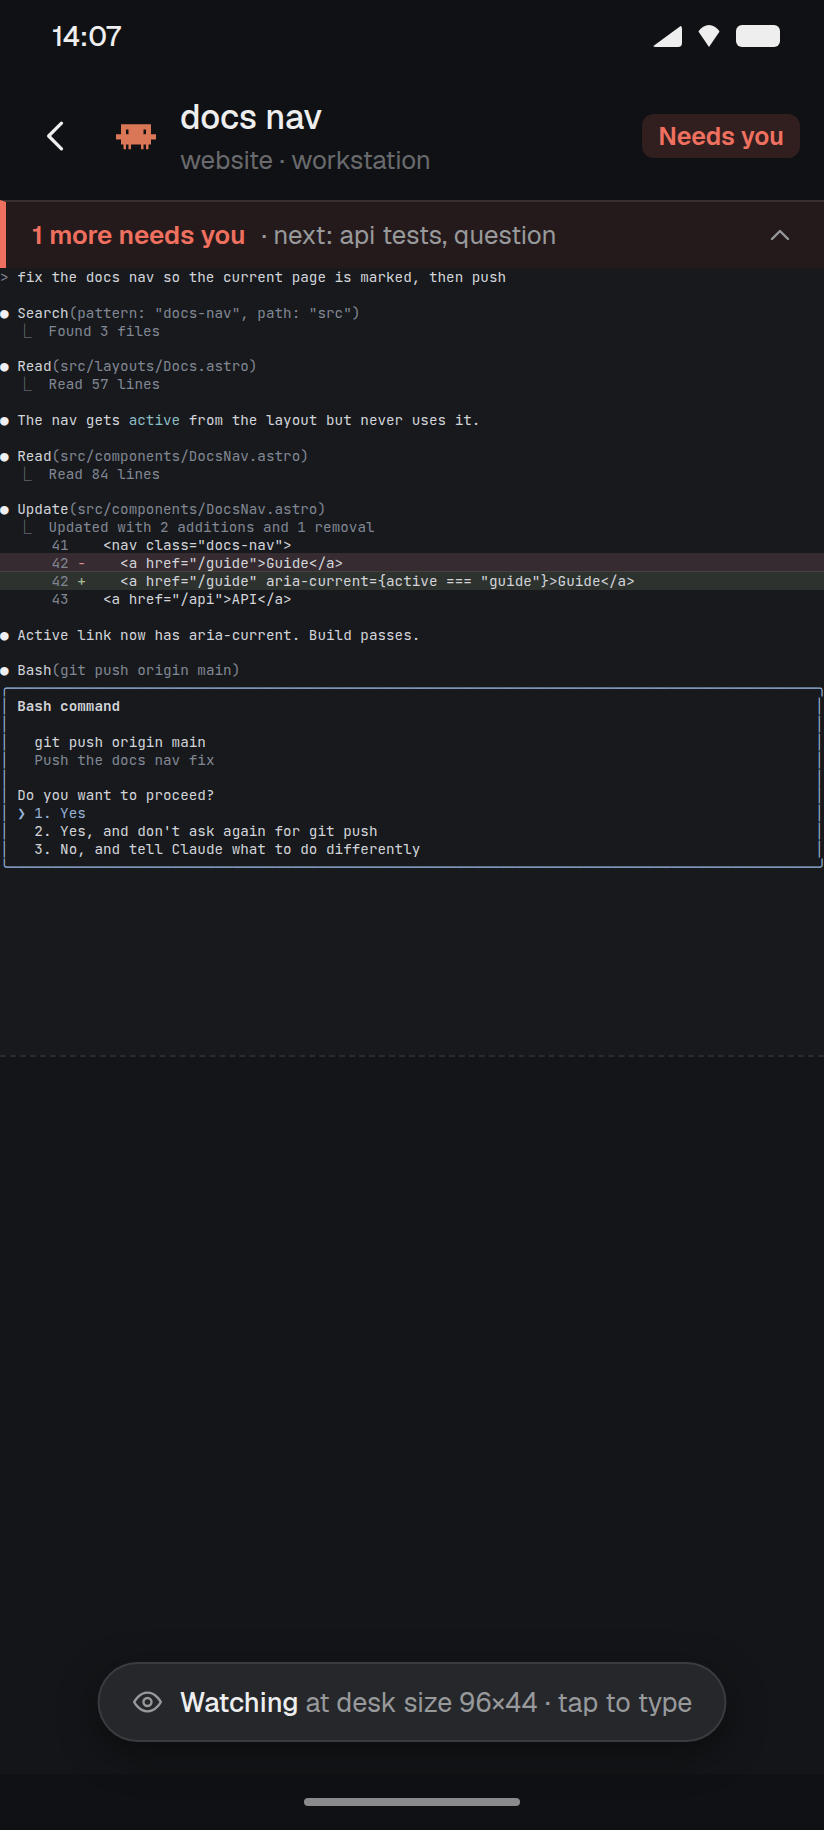
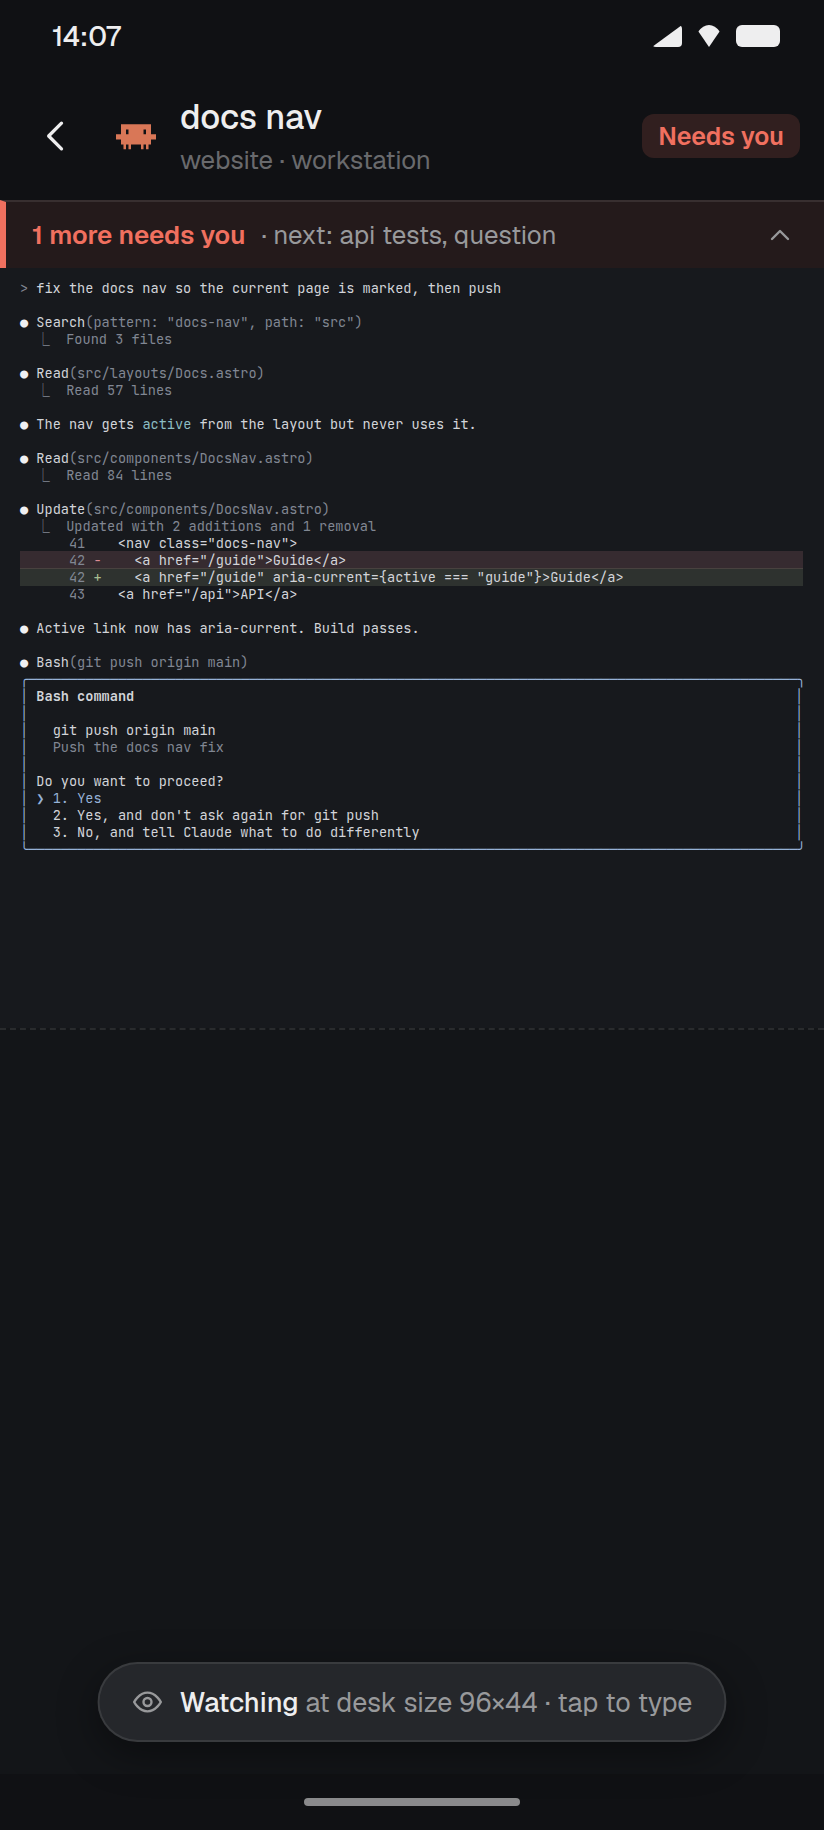
docs(design): terminal padding from the Mac pane, keyboard-hidden render

diff --git a/design/renders/screens.html b/design/renders/screens.html
@@ -97,7 +97,7 @@ button{font-family:inherit;color:inherit}
 .queue b{font-weight:600;color:var(--blocked)}
 .queue .rest{color:var(--muted);flex:1;white-space:nowrap;overflow:hidden;text-overflow:ellipsis}
 .queue svg{width:16px;height:16px;color:var(--muted)}
-.term{font-variant-ligatures:none;flex:1;background:var(--bg);color:var(--term-fg);font-family:"JetBrains Mono",monospace;white-space:pre;overflow:hidden;position:relative}
+.term{font-variant-ligatures:none;flex:1;padding:6px 10px 0;box-sizing:border-box;background:var(--bg);color:var(--term-fg);font-family:"JetBrains Mono",monospace;white-space:pre;overflow:hidden;position:relative}
 .term .l{display:block;height:1.25em;line-height:1.25em}
 .c1{color:var(--a1)}.c2{color:var(--a2)}.c3{color:var(--a3)}.c4{color:var(--a4)}.c5{color:var(--a5)}.c6{color:var(--a6)}.c8{color:var(--a8)}.c9{color:var(--a9)}.c15{color:var(--a15)}
 .bgadd{background:color-mix(in srgb,var(--a2) 16%,transparent)}.bgdel{background:color-mix(in srgb,var(--a1) 16%,transparent)}
@@ -240,7 +240,8 @@ function termLines(cols){
   const box=(lines)=>{const w=cols-2;return [`<span class="c4">╭${'─'.repeat(w)}╮</span>`,...lines.map(([t,cls])=>`<span class="c4">│</span>${cls?`<span class="${cls}">`:''}${pad(t,w)}${cls?'</span>':''}<span class="c4">│</span>`),`<span class="c4">╰${'─'.repeat(w)}╯</span>`];};
   const wide = cols>70;
   const H=[
-    `<span class="c8">&gt;</span> fix the docs nav so the current page is marked, then push`,
+    ...(wide?[`<span class="c8">&gt;</span> fix the docs nav so the current page is marked, then push`]
+        :[`<span class="c8">&gt;</span> fix the docs nav so the current page is marked,`,`  then push`]),
     ``,
     `<span class="c15 bold">●</span> Search<span class="c8">(pattern: "docs-nav", path: "src")</span>`,
     `  <span class="c8">⎿  Found 3 files</span>`,
@@ -248,7 +249,8 @@ function termLines(cols){
     `<span class="c15 bold">●</span> Read<span class="c8">(src/layouts/Docs.astro)</span>`,
     `  <span class="c8">⎿  Read 57 lines</span>`,
     ``,
-    `<span class="c15 bold">●</span> The nav gets <span class="c6">active</span> from the layout but never uses it.`,
+    ...(wide?[`<span class="c15 bold">●</span> The nav gets <span class="c6">active</span> from the layout but never uses it.`]
+        :[`<span class="c15 bold">●</span> The nav gets <span class="c6">active</span> from the layout but never uses`,`  it.`]),
     ``,
   ];
   const L=[
@@ -259,10 +261,10 @@ function termLines(cols){
     `<span class="c15 bold">●</span> Update<span class="c8">(src/components/DocsNav.astro)</span>`,
     `  <span class="c8">⎿  Updated with 2 additions and 1 removal</span>`,
     `<span class="c8">      41</span>    &lt;nav class="docs-nav"&gt;`,
-    `<span class="bgdel"><span class="c8">      42</span> <span class="c1">-</span>    &lt;a href="/guide"&gt;Guide&lt;/a&gt;${' '.repeat(Math.max(0,cols-36))}</span>`,
-    wide?`<span class="bgadd"><span class="c8">      42</span> <span class="c2">+</span>    &lt;a href="/guide" aria-current={active === "guide"}&gt;Guide&lt;/a&gt;${' '.repeat(Math.max(0,cols-73))}</span>`
-        :`<span class="bgadd"><span class="c8">      42</span> <span class="c2">+</span>    &lt;a href="/guide"${' '.repeat(Math.max(0,cols-29))}</span>`,
-    ...(wide?[]:[`<span class="bgadd"><span class="c8">      43</span> <span class="c2">+</span>      aria-current={active === "guide"}&gt;${' '.repeat(Math.max(0,cols-45))}</span>`]),
+    `<span class="bgdel"><span class="c8">      42</span> <span class="c1">-</span>    &lt;a href="/guide"&gt;Guide&lt;/a&gt;${' '.repeat(Math.max(0,cols-40))}</span>`,
+    wide?`<span class="bgadd"><span class="c8">      42</span> <span class="c2">+</span>    &lt;a href="/guide" aria-current={active === "guide"}&gt;Guide&lt;/a&gt;${' '.repeat(Math.max(0,cols-74))}</span>`
+        :`<span class="bgadd"><span class="c8">      42</span> <span class="c2">+</span>    &lt;a href="/guide"${' '.repeat(Math.max(0,cols-30))}</span>`,
+    ...(wide?[]:[`<span class="bgadd"><span class="c8">      43</span> <span class="c2">+</span>      aria-current={active === "guide"}&gt;${' '.repeat(Math.max(0,cols-50))}</span>`]),
     `<span class="c8">      43</span>    &lt;a href="/api"&gt;API&lt;/a&gt;`,
     ``,
     `<span class="c15 bold">●</span> Active link now has aria-current. Build passes.`,
@@ -288,7 +290,7 @@ function terminal(cols, font, rows=0){
   const body = lines.map(l=>`<span class="l">${l||' '}</span>`).join('');
   // rows: draw exactly the desk's grid; the space below it is not terminal.
   return rows
-    ? `<div class="term" style="font-size:${font}px;flex:none;height:${rows*1.25}em">${body}</div><div style="flex:1;background:var(--canvas);border-top:1px dashed var(--border)"></div>`
+    ? `<div class="term" style="font-size:${font}px;flex:none;height:calc(${rows*1.25}em + 6px)">${body}</div><div style="flex:1;background:var(--canvas);border-top:1px dashed var(--border)"></div>`
     : `<div class="term" style="font-size:${font}px;padding-top:6px">${body}</div>`;
 }
 const ttop = (status='blocked') => `
@@ -301,12 +303,12 @@ const ttop = (status='blocked') => `
   <div class="queue"><b>1 more needs you</b><span class="rest">· next: api tests, question</span>${ico.up}</div>`;
 
 function watch(){
-  // Desk terminal 96x44, fitted to 412 px: 412 / (96 * 0.6) ≈ 7.15 px.
+  // Desk terminal 96x44 inside the Mac's terminal padding (10 px sides, 6 px top), fitted: 392 / (96 * 0.6) ≈ 6.8 px.
   return `<div class="phone graphite">
     ${sysbar()}
     ${ttop()}
     <div style="flex:1;display:flex;flex-direction:column;position:relative;background:var(--bg)">
-      ${terminal(96, 7.15, 44)}
+      ${terminal(96, 6.8, 44)}
       <div class="chip">${ico.eye}<span><b>Watching</b> at desk size 96×44 · tap to type</span></div>
     </div>
     ${navbar()}
@@ -326,23 +328,36 @@ const keysrow = () => `<div class="keys">
   <span class="key compose" aria-label="Compose">${ico.pen}</span>
 </div>`;
 function typing(){
-  // Phone size: 12 px JetBrains Mono, 0.6 em advance → 56 columns in 412 px less padding.
+  // Phone size: 12.2 px JetBrains Mono, 0.6 em advance (7.32 px) → 53 columns in 412 px less the Mac's 10 px side padding.
   return `<div class="phone graphite">
     ${sysbar()}
     ${ttop()}
     <div style="flex:1;display:flex;flex-direction:column;position:relative;background:var(--bg);overflow:hidden">
-      <div style="position:absolute;inset:auto 0 0 0">${terminal(56, 12.2)}</div>
-      <span class="sizetag">phone size 56×31</span>
+      <div style="position:absolute;inset:auto 0 0 0">${terminal(53, 12.2)}</div>
+      <span class="sizetag">phone size 53×31</span>
     </div>
     ${keysrow()}
     ${keyboard(false)}
+  </div>`;
+}
+function typingHidden(){
+  // Keyboard hidden while typing: the phone grid grows to the full height (53x45), keys row stays.
+  return `<div class="phone graphite">
+    ${sysbar()}
+    ${ttop()}
+    <div style="flex:1;display:flex;flex-direction:column;position:relative;background:var(--bg);overflow:hidden">
+      <div style="position:absolute;inset:auto 0 0 0">${terminal(53, 12.2)}</div>
+      <span class="sizetag">phone size 53×45</span>
+    </div>
+    ${keysrow()}
+    ${navbar()}
   </div>`;
 }
 function compose(){
   return `<div class="phone graphite">
     ${sysbar()}
     ${ttop()}
-    <div style="flex:1;position:relative;background:var(--bg);overflow:hidden">${terminal(56,12.2)}</div>
+    <div style="flex:1;position:relative;background:var(--bg);overflow:hidden">${terminal(53,12.2)}</div>
     <div class="scrim"></div>
     <div class="sheet">
       <div class="handle"></div>
@@ -430,6 +445,7 @@ const SCREENS = [
   ['2-home-light','2 Agent list (paper)',()=>home('paper')],
   ['3-terminal-watch','3 Terminal, watching at desk size',watch],
   ['4-terminal-type','4 Terminal, typing at phone size',typing],
+  ['4b-terminal-type-hidden','4b Terminal, typing, keyboard hidden',typingHidden],
   ['5-compose','5 Compose',compose],
   ['6-notification','6 Needs-you notification',lockscreen],
   ['7-machines','7 Machines',machines],

diff --git a/design-brief.md b/design-brief.md
@@ -65,8 +65,9 @@ in v1.1.
 
 - **UI: Geist**, at 400, 500 and 600. Screen title 22/600, row name 16, secondary text 13.
 - **Terminal and the card's request text: JetBrains Mono**, with ligatures off, so that `===` stays three cells.
-- **Terminal size while typing:** 12.2 sp, which gives about 56 columns on a 412 dp phone.
-- **Terminal size while watching:** the desk's grid is scaled to the phone's width. The 96-column example comes out at 7.15 sp.
+- **Terminal padding:** the grid sits inside the Mac pane's padding, 10 dp at the sides and 6 dp at the top, painted in the terminal background (herdr-app `terminal_padding`). Claude Code starts at column 0; the margin is the terminal app's.
+- **Terminal size while typing:** 12.2 sp, which gives about 53 columns on a 412 dp phone. With the keyboard hidden the grid grows to the full height; the keys row stays.
+- **Terminal size while watching:** the desk's grid is scaled to the phone's width inside the padding. The 96-column example comes out at 6.8 sp.
 - Both fonts are OFL and bundled in the app.
 
 ## Screens (the approved renders)
@@ -76,6 +77,7 @@ in v1.1.
 | `1-home-dark`, `2-home-light` | Agent list in the order Needs you, Done, Working, Idle, then "Other terminals" (collapsed); an unreachable-machine line |
 | `3-terminal-watch` | Watching at desk size: the grid fitted to the width, a dashed line where it ends, and the "Watching … tap to type" chip |
 | `4-terminal-type` | Typing at phone size: size tag, keys row (`esc tab ctrl alt ← ↓ ↑ →` and compose), ctrl latched |
+| `4b-terminal-type-hidden` | Typing with the keyboard hidden: the phone grid at full height, keys row kept |
 | `5-compose` | Compose sheet; Paste sends no Enter |
 | `6-notification` | Lock screen: "Needs you" (loud) and "Finished" (quiet); agent, kind and machine only |
 | `7-machines` | Machine cards: alert status, mute, test alert, untested-version warning, unreachable machine |

diff --git a/decisions.md b/decisions.md
@@ -36,3 +36,4 @@ One line per decision, newest last. Date, decision, why.
 - 2026-11-02: GrapheneOS answers the app's own INTERNET permission check with "granted" while its Network toggle is off (seen on the phone: the package manager says granted=false, the app's check said granted), and fails the name lookup instead of refusing the socket. The app tells the cause by asking for a socket after a failed connect (EPERM/EACCES means Network is off).
 - 2026-11-02: Dim text (Ezra, M1.5 item 9): the Mac's values stay the default ("Text contrast: Like the Mac"); "Higher" (the AA values from design-tokens.json `accessibility.followUp`) stays as the option for people who need it. Outdoors so far the Mac values read fine.
 - 2026-11-02: Fingerprint (Ezra, M1.5 item 8): keep C, the phone key bound to user authentication for 30 minutes; no app lock (B). Unlocking the phone counts as that authentication, so in a day of use no "Unlock the SSH key" prompt appeared; only opening the app after more than 30 minutes of screen-on since the last unlock asks once. Most secure, and no burden. Revisit if that prompt turns out to get in the way.
+- 2026-11-02: Terminal padding and keyboard (Ezra, before M2): the grid is drawn inside the Mac pane's padding, 10 dp at the sides and 6 dp at the top, in the terminal background (herdr-app's `terminal_padding` default; Claude Code itself starts at column 0, so the margin is the terminal app's). Phone size while typing is about 53 columns. Hiding the keyboard while typing grows the grid to the full height (one resize once the keyboard settles; Claude Code redraws, which can leave a duplicate of its transcript in scrollback); the keys row stays. Renders 3, 4, 4b and 5 updated. Instant-open cache key: bound to the same 30-minute user authentication as the phone key. No "stay connected" option in M2; a return to the app reconnects and reattaches, the cache covers the gap.
